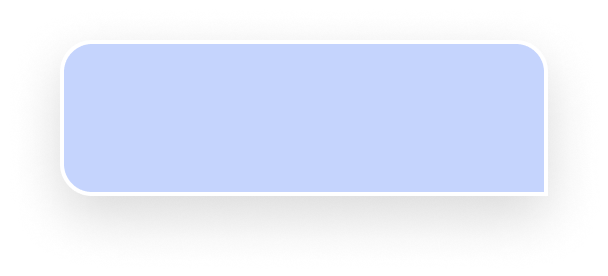
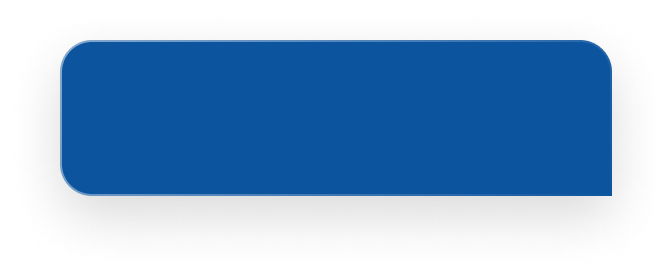
changed tooltip type

diff --git a/src/app/[lng]/components/ApartmentModel/ApartmentModel.tsx b/src/app/[lng]/components/ApartmentModel/ApartmentModel.tsx
@@ -61,7 +61,7 @@ function ApartmentModel({ tablet, mobile }:IApartmentModel) {
     const time = clock.getElapsedTime();
 
     if (imageRef.current) {
-      imageRef.current.position.y = 1.1 + Math.sin(time) * 0.06;
+      imageRef.current.position.y = 1.0 + Math.sin(time) * 0.03;
       imageRef.current.rotation.z = MathUtils.lerp(
         imageRef.current.rotation.z,
         targetRotation1,
@@ -69,10 +69,10 @@ function ApartmentModel({ tablet, mobile }:IApartmentModel) {
       );
     }
     if (imageSymRef.current) {
-      imageSymRef.current.position.y = 1.1 + Math.sin(time) * 0.06;
+      imageSymRef.current.position.y = 1.0 + Math.sin(time) * 0.03;
     }
     if (imageRef2.current) {
-      imageRef2.current.position.y = 2.2 + Math.cos(time) * 0.06;
+      imageRef2.current.position.y = 2.1 + Math.cos(time) * 0.03;
       imageRef2.current.rotation.z = MathUtils.lerp(
         imageRef2.current.rotation.z,
         targetRotation2,
@@ -80,7 +80,7 @@ function ApartmentModel({ tablet, mobile }:IApartmentModel) {
       );
     }
     if (imageSymRef2.current) {
-      imageSymRef2.current.position.y = 2.2 + Math.cos(time) * 0.06;
+      imageSymRef2.current.position.y = 2.1 + Math.cos(time) * 0.03;
     }
   });
 
@@ -95,22 +95,25 @@ function ApartmentModel({ tablet, mobile }:IApartmentModel) {
         <group>
           <mesh
             ref={imageRef}
-            position={[-1.7, 1.1, -2.5]}
-            scale={[0.7, 0.7, 0.7]}
+            position={[-1.9, 1.0, -2.5]}
+            scale={[0.55, 0.55, 0.55]}
             onClick={onHandleClickBubble1}
             onPointerOut={() => {
               setOpenTooltip(false);
               setTargetRotation1(0);
             }}
-            onPointerOver={() => setTargetRotation1(-Math.PI / 7.2)}
+            onPointerOver={() => {
+              setTargetRotation1(-Math.PI / 7.2);
+              onHandleClickBubble1();
+            }}
           >
             <planeGeometry args={[1, 1]} />
             <meshBasicMaterial map={texture} transparent />
           </mesh>
           <mesh
             ref={imageSymRef}
-            position={[-1.7, 1.1, -2.5]}
-            scale={[0.2, 0.3, 0]}
+            position={[-1.9, 1.0, -2.5]}
+            scale={[0.18, 0.28, 0]}
             onClick={onHandleClickBubble1}
           >
             <planeGeometry args={[1, 1]} />
@@ -120,40 +123,43 @@ function ApartmentModel({ tablet, mobile }:IApartmentModel) {
         {openTooltip ? (
           <group>
             <mesh
-              position={[-1.1, 1.75, -2.5]}
-              scale={[2.3, 1.2, 0]}
+              position={[-1.1, 1.50, -2.5]}
+              scale={[2.7, 1.1, 0]}
             >
               <planeGeometry args={[1, 1]} />
-              <meshBasicMaterial map={texture2} transparent color="#ABC1FB" />
+              <meshBasicMaterial map={texture2} transparent />
             </mesh>
             <mesh
-              position={[-1.1, 1.85, -2.5]}
-              scale={[1.65, 0.3, 0]}
+              position={[-1.1, 1.60, -2.5]}
+              scale={[2.0, 0.30, 0]}
             >
               <planeGeometry args={[1, 1]} />
-              <meshBasicMaterial map={text} transparent />
+              <meshBasicMaterial map={text} transparent color="#ffffff" />
             </mesh>
           </group>
         ) : null}
         <group>
           <mesh
             ref={imageRef2}
-            position={[2.45, 2.2, -4]}
-            scale={[0.8, 0.8, 0.8]}
+            position={[2.5, 2.1, -4]}
+            scale={[0.65, 0.65, 0.65]}
             onClick={onHandleClickBubble2}
             onPointerOut={() => {
               setOpenTooltip2(false);
               setTargetRotation2(0);
             }}
-            onPointerOver={() => setTargetRotation2(-Math.PI / 7.2)}
+            onPointerOver={() => {
+              setTargetRotation2(-Math.PI / 7.2);
+              onHandleClickBubble2();
+            }}
           >
             <planeGeometry args={[1, 1]} />
             <meshBasicMaterial map={texture} transparent />
           </mesh>
           <mesh
             ref={imageSymRef2}
-            position={[2.45, 2.2, -4]}
-            scale={[0.25, 0.36, 0]}
+            position={[2.5, 2.1, -4]}
+            scale={[0.24, 0.35, 0]}
             onClick={onHandleClickBubble2}
           >
             <planeGeometry args={[1, 1]} />
@@ -163,18 +169,18 @@ function ApartmentModel({ tablet, mobile }:IApartmentModel) {
         {openTooltip2 ? (
           <group>
             <mesh
-              position={[1.6, 2.98, -4]}
-              scale={[2.8, 1.4, 0]}
+              position={[1.4, 2.85, -4]}
+              scale={[3.8, 1.55, 0]}
             >
               <planeGeometry args={[1, 1]} />
-              <meshBasicMaterial map={texture3} transparent color="#ABC1FB" />
+              <meshBasicMaterial map={texture3} transparent />
             </mesh>
             <mesh
-              position={[1.6, 3.08, -4]}
-              scale={[2.1, 0.55, 0]}
+              position={[1.4, 2.95, -4]}
+              scale={[2.9, 0.6, 0]}
             >
               <planeGeometry args={[1, 1]} />
-              <meshBasicMaterial map={text2} transparent />
+              <meshBasicMaterial map={text2} transparent color="#ffffff" />
             </mesh>
           </group>
         ) : null}
